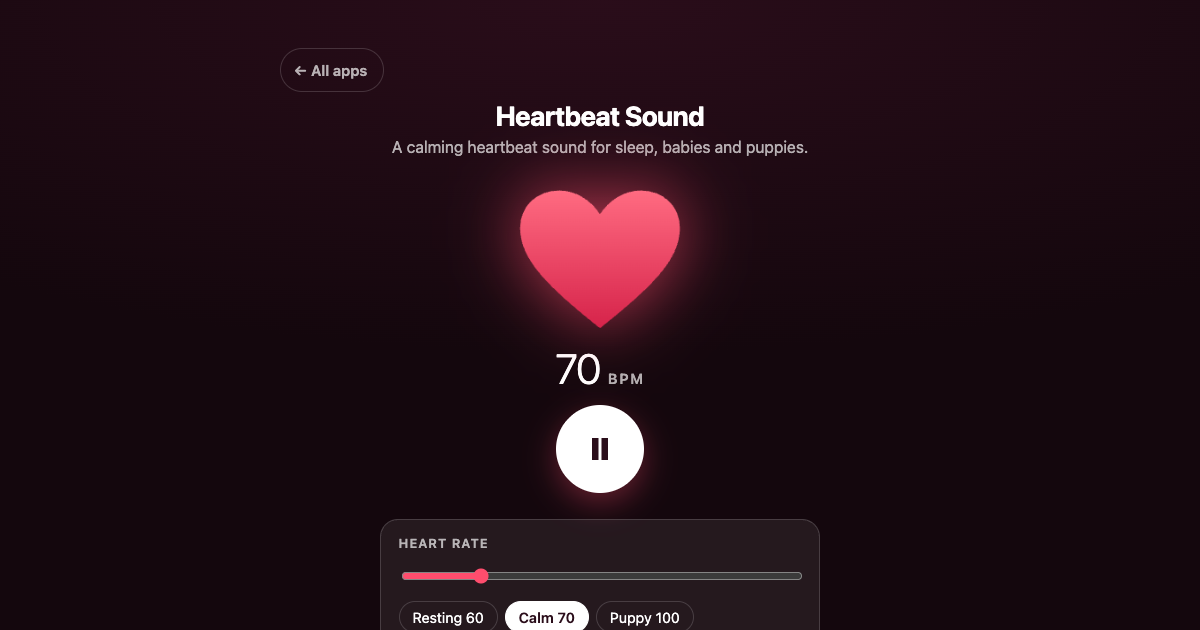
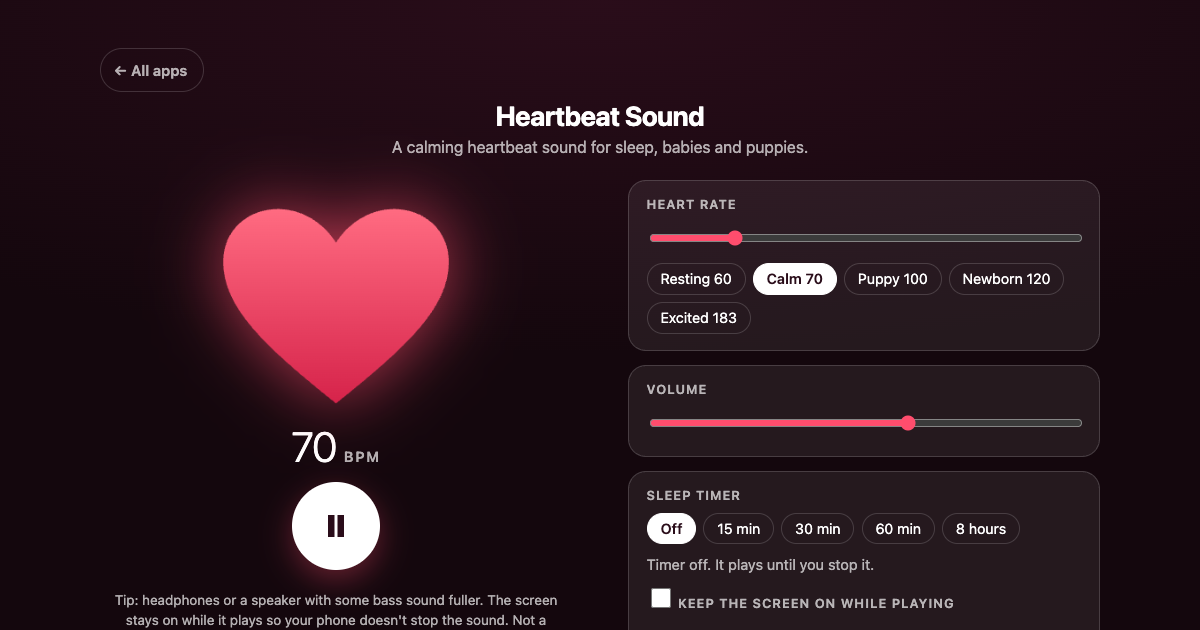
Wide-screen layouts for every app (two columns from 900px, phones unchanged); one screenshot theme per app; docs updated

Changed region(s): [[0.0925, 0.2413, 0.925, 1.0], [0.2467, 0.0905, 0.3083, 0.1206], [0.0925, 0.0905, 0.1542, 0.1206]]

diff --git a/sleepcycle/index.html b/sleepcycle/index.html
@@ -41,7 +41,13 @@ h2{font-size:1.1rem;margin:.2em 0 .4em}
 p{margin:.4em 0}
 footer{text-align:center;color:var(--mut);font-size:.85rem;margin-top:24px}
 a{color:var(--acc)}
-@media(min-width:900px){main{padding-top:48px}}
+@media(min-width:900px){main{padding-top:48px;max-width:1040px}
+.cols{display:grid;grid-template-columns:minmax(0,5fr) minmax(0,6fr);column-gap:20px;align-items:start}
+.cols .card{margin-top:0}
+.cols .out{position:sticky;top:16px}
+#hint{margin-top:0;text-align:left}
+main>.tabs{max-width:560px;margin:0 auto 20px}
+main>.card,main>footer{max-width:760px;margin-left:auto;margin-right:auto}}
 
 /* back to the list of all apps */
 .back { display: inline-flex; align-items: center; gap: .4rem; min-height: 44px; margin: 0 0 .5rem; padding: 0 1rem 0 .8rem; border: 1px solid var(--line, rgba(127,127,127,.4)); border-radius: 999px; color: var(--muted, var(--mut, inherit)); font-size: .92rem; font-weight: 600; text-decoration: none; background: transparent; }
@@ -61,6 +67,8 @@ a{color:var(--acc)}
   <button role="tab" id="tab-bed" aria-selected="false" data-mode="bed">I go to bed at…</button>
 </div>
 
+<div class="cols">
+<div class="in">
 <section class="card">
   <div class="row">
     <div><label for="time" id="timeLabel">Wake-up time</label><input type="time" id="time" value="07:00"></div>
@@ -75,8 +83,12 @@ a{color:var(--acc)}
   </details>
 </section>
 
+</div>
+<div class="out">
 <p id="hint" aria-live="polite"></p>
 <section class="card" aria-live="polite"><div id="results"></div></section>
+</div>
+</div>
 
 <section class="card">
   <h2>How it works</h2>

diff --git a/time-zone-meeting-planner/style.css b/time-zone-meeting-planner/style.css
@@ -94,3 +94,19 @@ footer { text-align: center; margin-top: 1.5rem; font-size: .9rem; } footer a { 
     --ink: #fefce8; --muted: #d9cf9a; --accent: #facc15; --accent-ink: #2b2100; --field: rgba(255,255,255,.08); --bad: #fda4af; --ok: #4ade80; --off: rgba(255,255,255,.07);
     color-scheme: dark;
 }
+
+/* laptops and desktops: two columns instead of one phone-sized column */
+@media (min-width: 900px) {
+    .app { width: min(1160px, 100%); display: grid; grid-template-columns: minmax(0, 5fr) minmax(0, 6fr); column-gap: 1.5rem; align-items: start; }
+    .app > * { grid-column: 1 / -1; }
+    .app > .card:not(.result):not(#result), .app > .app-in { grid-column: 1; }
+    .app > .result, .app > #result { grid-column: 2; position: sticky; top: 1rem; margin-top: 0; }
+    .app > .card { margin-bottom: .9rem; }
+    .app > .faq, .app > footer { width: min(760px, 100%); justify-self: center; }
+    header h1 { font-size: 2.3rem; }
+    .tabs { max-width: 560px; justify-self: center; width: 100%; }
+    /* before there is a result, keep the lone form card centered and phone-sized */
+    .app:has(> #result[hidden]) > .card { grid-column: 1 / -1; width: min(560px, 100%); justify-self: center; }
+    .app > .row-tools { grid-column: 1 / -1; display: flex; gap: .6rem; justify-content: center; }
+    .app > .row-tools .ghost { width: auto; padding: 0 1.2rem; }
+}

diff --git a/due-date-calculator/ui-test.js b/due-date-calculator/ui-test.js
@@ -79,14 +79,12 @@ const ok = (name, cond) => { if (!cond) fail++; console.log((cond ? 'PASS ' : 'F
       else {
         await p.emulateMedia({ colorScheme: 'dark' }); await p.waitForTimeout(150);
         await p.screenshot({ path: dir + '/desktop.png', fullPage: true });
-        await p.emulateMedia({ colorScheme: 'light' }); await p.waitForTimeout(150);
-        await p.screenshot({ path: dir + '/desktop-light.png', fullPage: true });
       }
     }
     await ctx.close();
   }
   // service worker file + assets exist
-  const need = ['index.html', 'style.css', 'core.js', 'script.js', 'favicon.svg', 'manifest.webmanifest', 'icons/icon-192.png', 'icons/icon-512.png', 'icons/apple-touch-icon.png', 'LICENSE', 'README.md', 'screenshots/desktop.png', 'screenshots/phone.png', 'screenshots/desktop-light.png'];
+  const need = ['index.html', 'style.css', 'core.js', 'script.js', 'favicon.svg', 'manifest.webmanifest', 'icons/icon-192.png', 'icons/icon-512.png', 'icons/apple-touch-icon.png', 'LICENSE', 'README.md', 'screenshots/desktop.png', 'screenshots/phone.png'];
   need.forEach(f => { if (!fs.existsSync(path.join(__dirname, f)) && !(shots === false && f.startsWith('README'))) ok('file exists ' + f, false); });
   await b.close();
   console.log(fail ? fail + ' FAILED' : 'ALL UI CHECKS PASSED');

diff --git a/due-date-calculator/style.css b/due-date-calculator/style.css
@@ -78,3 +78,17 @@ input[type="date"], input[type="time"] { display: block; -webkit-appearance: non
     --ink: #fbf0fd; --muted: #cdaed8; --accent: #e879f9; --accent-ink: #2e0a3a; --field: rgba(255,255,255,.08); --bad: #fda4af;
     color-scheme: dark;
 }
+
+/* laptops and desktops: two columns instead of one phone-sized column */
+@media (min-width: 900px) {
+    .app { width: min(1000px, 100%); display: grid; grid-template-columns: minmax(0, 1fr) minmax(0, 1fr); column-gap: 1.5rem; align-items: start; }
+    .app > * { grid-column: 1 / -1; }
+    .app > .card:not(.result):not(#result), .app > .app-in { grid-column: 1; }
+    .app > .result, .app > #result { grid-column: 2; position: sticky; top: 1rem; margin-top: 0; }
+    .app > .card { margin-bottom: .9rem; }
+    .app > .faq, .app > footer { width: min(760px, 100%); justify-self: center; }
+    header h1 { font-size: 2.3rem; }
+    .tabs { max-width: 560px; justify-self: center; width: 100%; }
+    /* before there is a result, keep the lone form card centered and phone-sized */
+    .app:has(> #result[hidden]) > .card { grid-column: 1 / -1; width: min(560px, 100%); justify-self: center; }
+}

diff --git a/bill-splitter/style.css b/bill-splitter/style.css
@@ -93,3 +93,17 @@ a.primary.alt { background: transparent; color: var(--ink); border: 1px solid va
     --ink: #f1f5f9; --muted: #a5b4c8; --accent: #fb923c; --accent-ink: #2a1200; --field: rgba(255,255,255,.08);
     color-scheme: dark;
 }
+
+/* laptops and desktops: two columns instead of one phone-sized column */
+@media (min-width: 900px) {
+    .app { width: min(1040px, 100%); display: grid; grid-template-columns: minmax(0, 1fr) minmax(0, 1fr); column-gap: 1.5rem; align-items: start; }
+    .app > * { grid-column: 1 / -1; }
+    .app > .card:not(.result):not(#result), .app > .app-in { grid-column: 1; }
+    .app > .result, .app > #result { grid-column: 2; position: sticky; top: 1rem; margin-top: 0; }
+    .app > .card { margin-bottom: .9rem; }
+    .app > .faq, .app > footer { width: min(760px, 100%); justify-self: center; }
+    header h1 { font-size: 2.3rem; }
+    .tabs { max-width: 560px; justify-self: center; width: 100%; }
+    /* before there is a result, keep the lone form card centered and phone-sized */
+    .app:has(> #result[hidden]) > .card { grid-column: 1 / -1; width: min(560px, 100%); justify-self: center; }
+}

diff --git a/sleepbeat/style.css b/sleepbeat/style.css
@@ -113,3 +113,16 @@ footer a { color: var(--muted); }
 .back:hover { color: var(--ink, inherit); border-color: currentColor; }
 .back:focus-visible { outline: 3px solid var(--accent, var(--acc, #fff)); outline-offset: 2px; }
 @media print { .back { display: none; } }
+
+/* laptops and desktops: two columns instead of one phone-sized column */
+@media (min-width: 900px) {
+    .page { width: min(1000px, 100%); }
+    .app { width: 100%; display: grid; grid-template-columns: minmax(0, 1fr) minmax(0, 1fr); column-gap: 3.5rem; align-items: center; }
+    .app > header { grid-column: 1 / -1; grid-row: 1; margin-bottom: 1.5rem; }
+    .app > .tip { grid-column: 1; grid-row: 4; }
+    .app > .stage { grid-column: 1; grid-row: 2; margin: 1rem 0 .5rem; align-self: end; }
+    .app > .play { grid-column: 1; grid-row: 3; margin: .4rem auto 0; align-self: start; }
+    .app > .controls { grid-column: 2; grid-row: 2 / span 3; text-align: left; align-self: center; }
+    .heart { width: 240px; }
+    .info { width: min(720px, 100%); margin-left: auto; margin-right: auto; }
+}

diff --git a/sleepbeat/index.html b/sleepbeat/index.html
@@ -51,6 +51,7 @@
                 <svg class="i-pause" viewBox="0 0 24 24" aria-hidden="true"><path d="M7 5h4v14H7zM13 5h4v14h-4z" /></svg>
             </button>
 
+            <div class="controls">
             <section class="panel" aria-label="Heart rate">
                 <label for="bpm">Heart rate</label>
                 <input type="range" id="bpm" min="40" max="200" step="1" value="70">
@@ -68,6 +69,7 @@
                 <p id="timer-status" class="timer-status" role="status" aria-live="polite">Timer off. It plays until you stop it.</p>
                 <label class="keep"><input type="checkbox" id="awake"> Keep the screen on while playing</label>
             </section>
+            </div>
 
             <p class="tip">Tip: headphones or a speaker with some bass sound fuller. The screen stays on while it plays so your phone doesn't stop the sound. Not a medical device.</p>
         </div>

diff --git a/weather-app/index.html b/weather-app/index.html
@@ -35,6 +35,7 @@
         <div id="others" class="others" hidden></div>
 
         <section id="weather-info" class="card" hidden>
+            <div class="col-now">
             <div class="place">
                 <h2 id="place-name"></h2>
                 <p id="place-time"></p>
@@ -63,11 +64,14 @@
                 <div><dt>Sunset</dt><dd id="sunset"></dd></div>
             </dl>
 
+            </div>
+            <div class="col-later">
             <h3>Next 12 hours</h3>
             <ol id="hourly" class="hourly"></ol>
 
             <h3>7-day forecast</h3>
             <ul id="daily" class="daily"></ul>
+            </div>
         </section>
 
         <footer>Weather data by <a href="https://open-meteo.com" target="_blank" rel="noopener">Open-Meteo.com</a> &middot;

diff --git a/index.html b/index.html
@@ -14,7 +14,7 @@
 :root[data-theme="light"]{--bg:#f6f7fb;--card:#fff;--fg:#14172b;--mut:#5d6486;--acc:#4f5bd5;--bd:#e3e6f2;--sh:0 2px 12px #1b244a14}
 *{box-sizing:border-box}[hidden]{display:none!important}
 body{margin:0;background:var(--bg);color:var(--fg);font:16px/1.5 system-ui,-apple-system,Segoe UI,Roboto,sans-serif}
-main{max-width:960px;margin:0 auto;padding:40px 16px 56px}
+main{max-width:1120px;margin:0 auto;padding:40px 16px 56px}
 h1{font-size:clamp(1.8rem,5vw,2.6rem);margin:0 0 .2em;text-align:center}
 .sub{color:var(--mut);text-align:center;margin:0 0 24px}
 #q{display:block;width:100%;max-width:420px;margin:0 auto 24px;padding:12px 16px;font:inherit;color:var(--fg);background:var(--card);border:1px solid var(--bd);border-radius:999px;min-height:48px}

diff --git a/offlinetodo/style.css b/offlinetodo/style.css
@@ -207,3 +207,14 @@ footer a { color: var(--muted); }
     --warn: #fcd34d;
     color-scheme: dark;
 }
+
+/* laptops and desktops: two columns instead of one phone-sized column */
+@media (min-width: 900px) {
+    .page { width: min(1120px, 100%); display: grid; grid-template-columns: minmax(0, 1fr) 340px; column-gap: 2.5rem; align-items: start; }
+    .page > * { grid-column: 1 / -1; }
+    .page > .app { grid-column: 1; width: 100%; margin: 0; }
+    .page > .info { grid-column: 2; margin-top: 0; padding-top: 0; border-top: 0; position: sticky; top: 1rem; max-height: calc(100vh - 2rem); overflow-y: auto; padding-right: .3rem; }
+    .info h2 { font-size: 1.1rem; }
+    header h1 { font-size: 2.3rem; }
+    .list { min-height: 12rem; }
+}

diff --git a/weather-app/style.css b/weather-app/style.css
@@ -118,3 +118,12 @@ footer { margin-top: 1.5rem; text-align: center; font-size: .82rem; color: var(-
 .back:hover { color: var(--ink, inherit); border-color: currentColor; }
 .back:focus-visible { outline: 3px solid var(--accent, var(--acc, #fff)); outline-offset: 2px; }
 @media print { .back { display: none; } }
+
+/* laptops and desktops: two columns instead of one phone-sized column */
+@media (min-width: 900px) {
+    .app { width: min(1040px, 100%); }
+    #weather-info { display: grid; grid-template-columns: minmax(0, 1fr) minmax(0, 1fr); column-gap: 2rem; align-items: start; }
+    #weather-info[hidden] { display: none; }
+    #weather-info .col-later > h3:first-child { margin-top: 0; }
+    .search { max-width: 620px; }
+}

diff --git a/time-zone-meeting-planner/ui-test.js b/time-zone-meeting-planner/ui-test.js
@@ -163,7 +163,6 @@ async function overlaps(p) {
       await p.emulateMedia({ colorScheme: label === 'phone' ? 'light' : 'dark' }); await p.waitForTimeout(100);
       if (label === 'desktop') await p.setViewportSize({ width: 1100, height: 1700 });
       await p.screenshot({ path: path.join(__dirname, 'screenshots', label + '.png'), fullPage: true });
-      if (label === 'desktop') { await p.emulateMedia({ colorScheme: 'light' }); await p.waitForTimeout(100); await p.screenshot({ path: path.join(__dirname, 'screenshots', 'desktop-light.png'), fullPage: true }); }
     }
     await ctx.close();
   }
